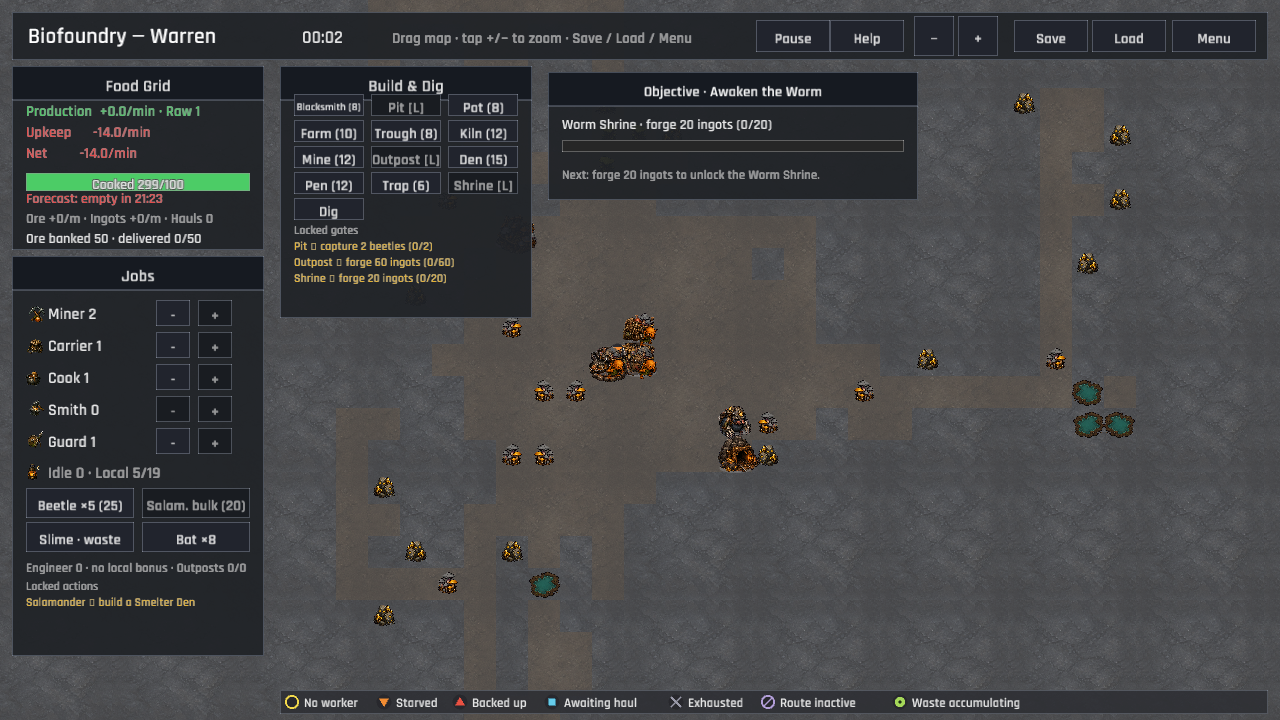
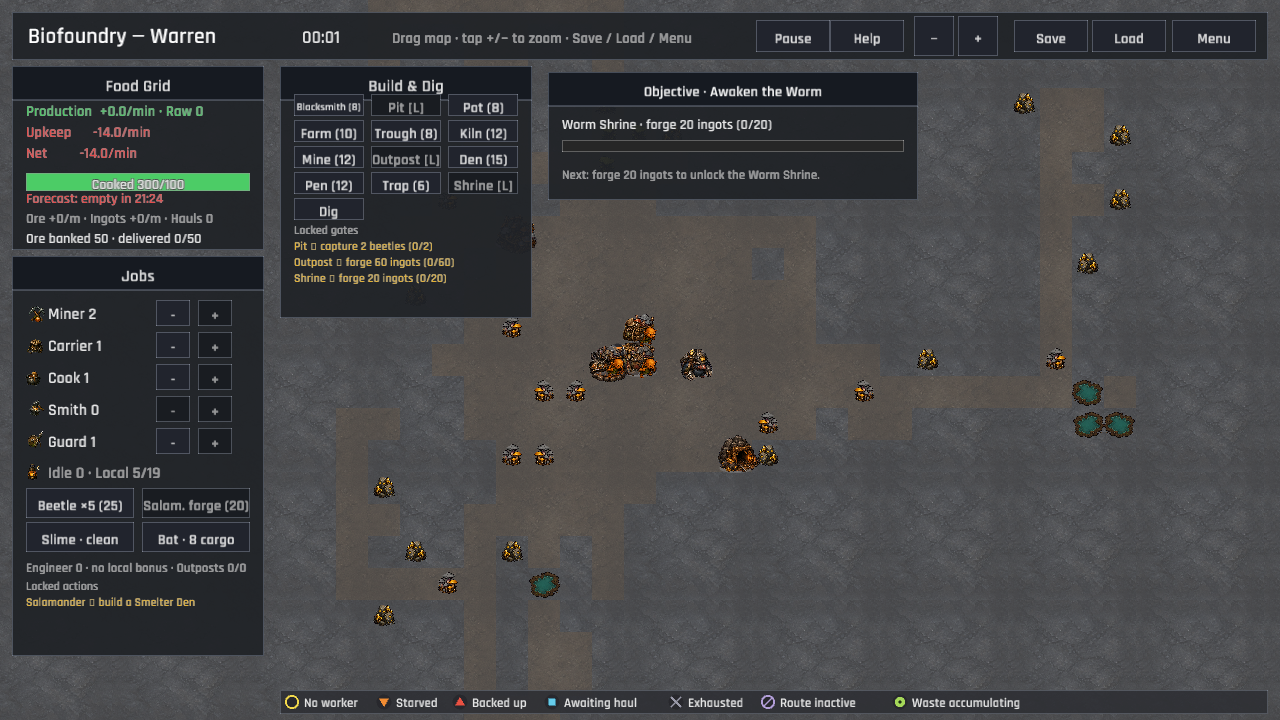
The helpers name their living work (Optional specialist labels)
The post-campaign recruitment row used shorthand that named species or capacity without making every action obvious. Clarify the Salamander forge, Slime cleaning, and Bat cargo actions while keeping the existing compact touch layout, and refresh the optional-state capture with focused label coverage.

diff --git a/src/ui/hud/panels.rs b/src/ui/hud/panels.rs
@@ -311,7 +311,7 @@ pub(super) fn draw_jobs_panel(
     let has_den = session.buildings_of("smelter").next().is_some();
     if hud_button(
         Rect::new(x + half + 8.0, y, half, 30.0),
-        &format!("Salam. bulk ({})", data.balance.salamander_ore_cost),
+        &format!("Salam. forge ({})", data.balance.salamander_ore_cost),
         has_den && session.economy.ore_stock >= data.balance.salamander_ore_cost,
         mouse,
     ) {
@@ -388,9 +388,9 @@ pub(super) fn draw_jobs_panel(
 
 fn optional_specialist_label(species: &str, posted: bool) -> &'static str {
     match (species, posted) {
-        ("slime_janitor", false) => "Slime · waste",
+        ("slime_janitor", false) => "Slime · clean",
         ("slime_janitor", true) => "Slime · posted",
-        ("bat_courier", false) => "Bat ×8",
+        ("bat_courier", false) => "Bat · 8 cargo",
         ("bat_courier", true) => "Bat · posted",
         _ => "Specialist",
     }

diff --git a/src/ui/hud/panels/tests.rs b/src/ui/hud/panels/tests.rs
@@ -157,13 +157,16 @@ fn awakened_warrens_keep_advanced_systems_visible() {
 fn optional_specialist_buttons_explain_when_the_unique_post_is_filled() {
     assert_eq!(
         optional_specialist_label("slime_janitor", false),
-        "Slime · waste"
+        "Slime · clean"
     );
     assert_eq!(
         optional_specialist_label("slime_janitor", true),
         "Slime · posted"
     );
-    assert_eq!(optional_specialist_label("bat_courier", false), "Bat ×8");
+    assert_eq!(
+        optional_specialist_label("bat_courier", false),
+        "Bat · 8 cargo"
+    );
     assert_eq!(
         optional_specialist_label("bat_courier", true),
         "Bat · posted"
